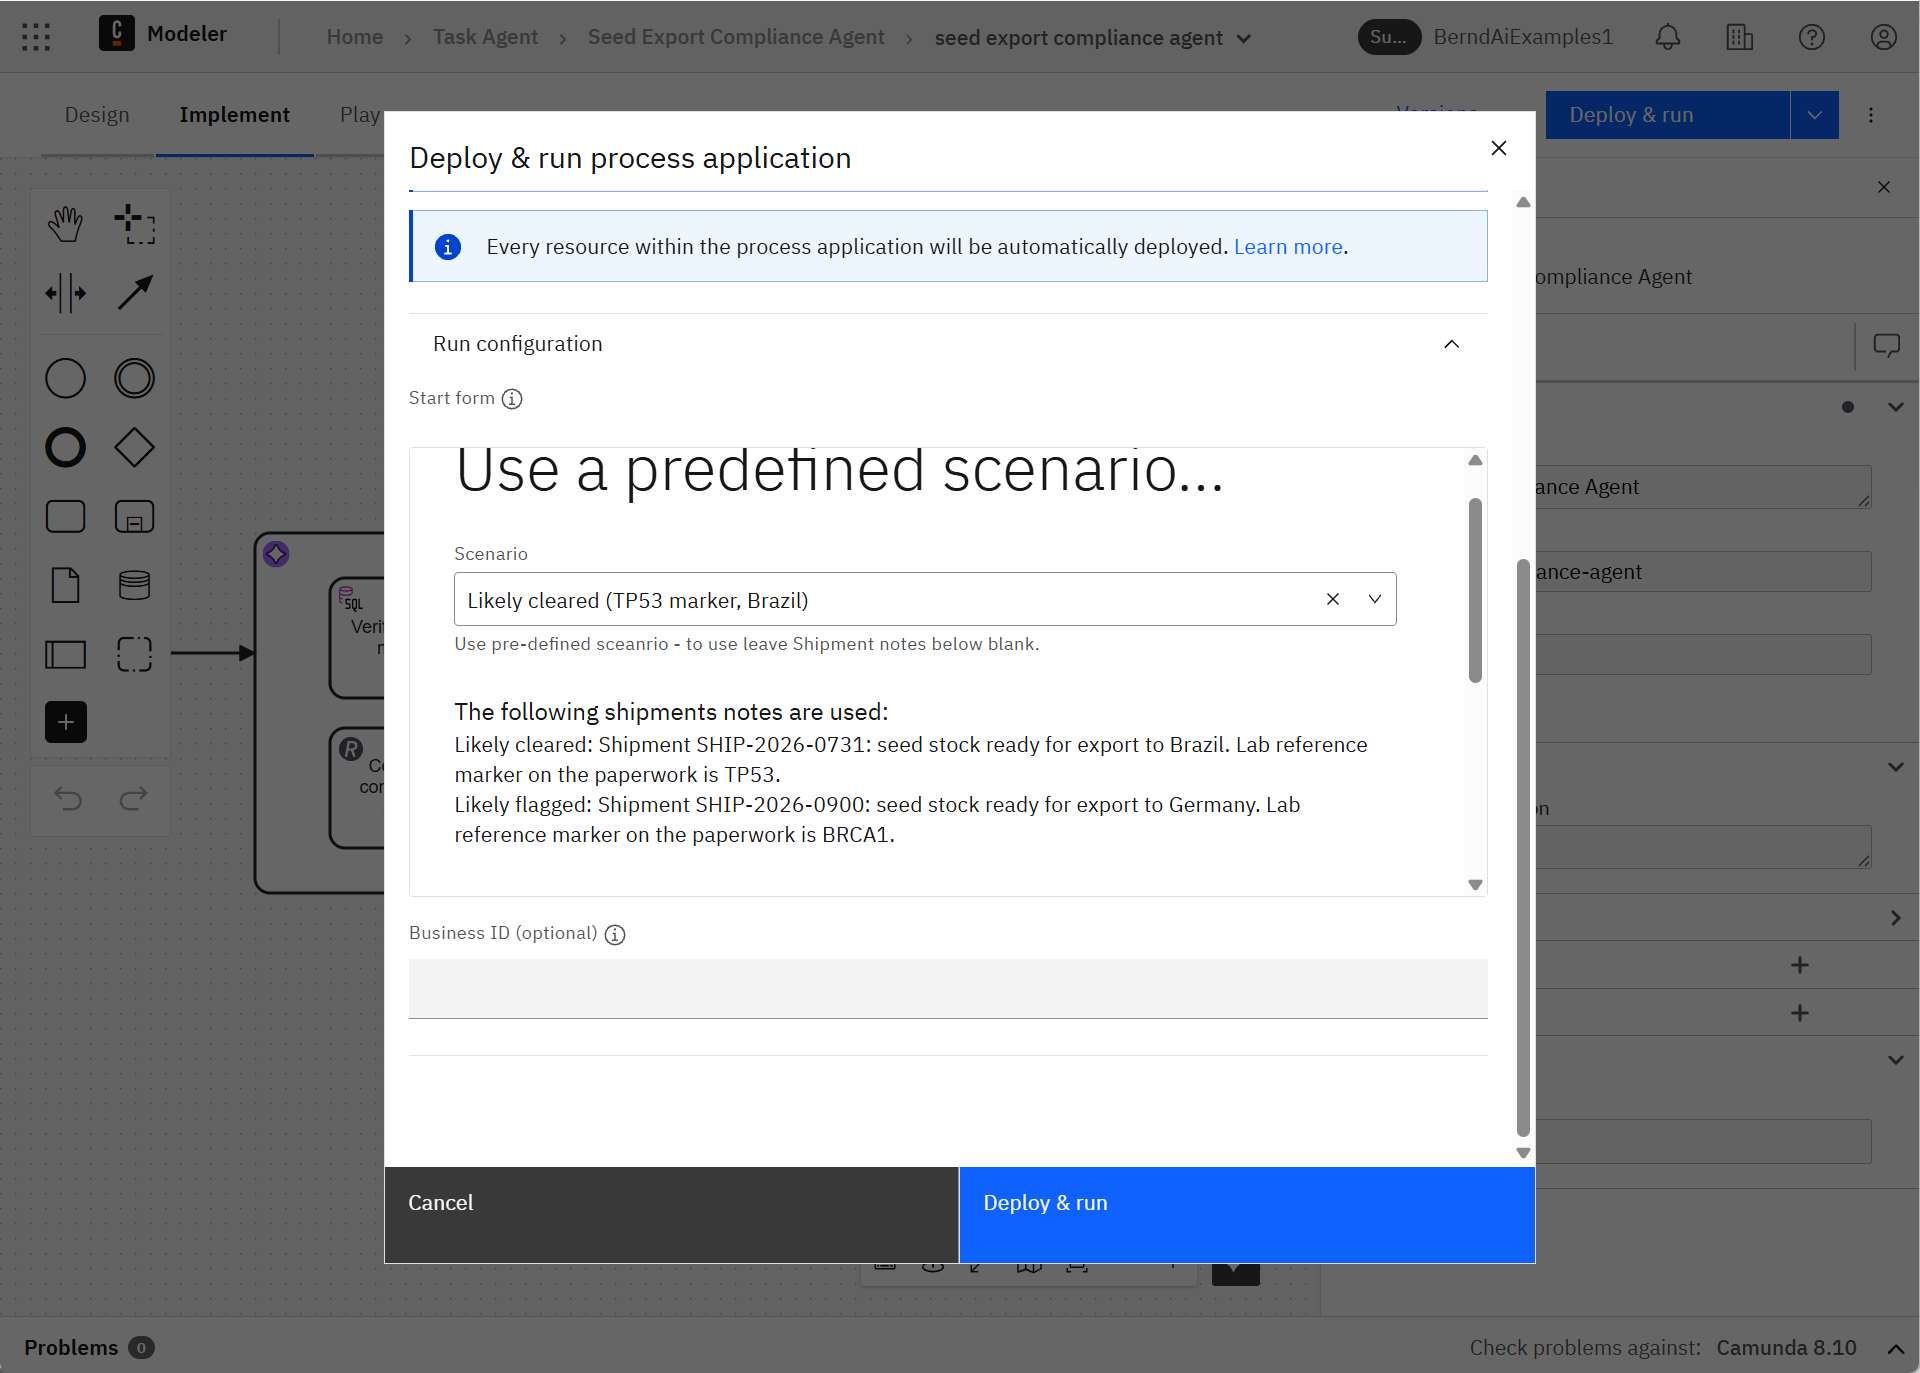
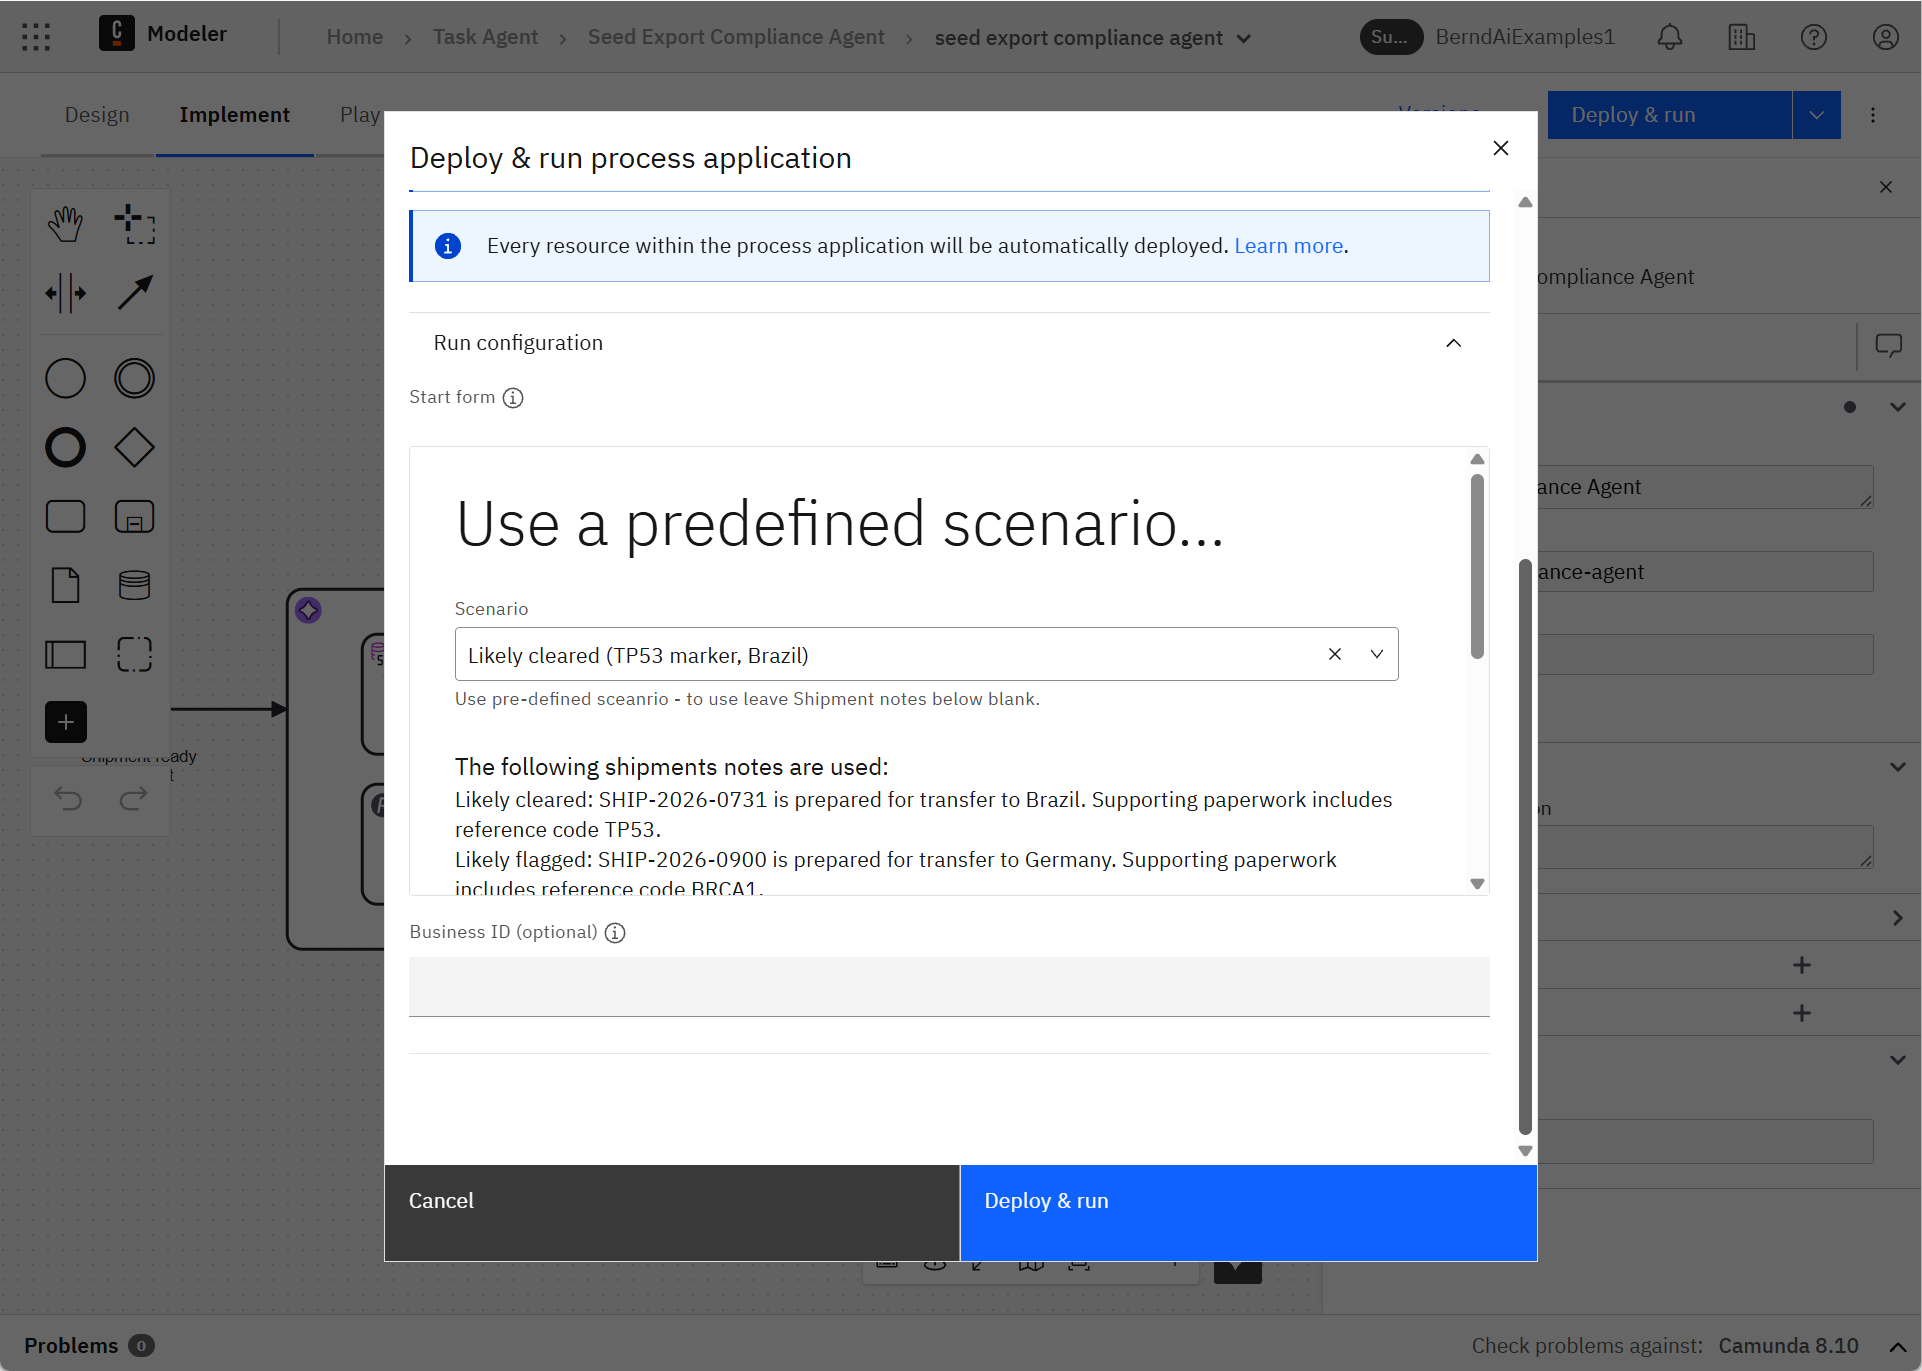
fixed form typo, added screenshots

diff --git a/task-agent/README.md b/task-agent/README.md
@@ -1,6 +1,6 @@
 # Seed Export Compliance Agent
 
-[![Install In Camunda SaaS](https://img.shields.io/badge/Install%20In-Camunda%20SaaS-0A7A5C?style=for-the-badge)](https://modeler.cloud.camunda.io/import/resources?source=https://raw.githubusercontent.com/berndruecker/camunda-examples-quick-turnaround/main/task-agent/models/seed-export-compliance-agent.bpmn,https://raw.githubusercontent.com/berndruecker/camunda-examples-quick-turnaround/main/task-agent/models/seed-export-shipment-ready.form,https://raw.githubusercontent.com/berndruecker/camunda-examples-quick-turnaround/main/task-agent/models/seed-export-compliance-review.form&title=Seed%20Export%20Compliance%20Agent)
+[![Run In Camunda SaaS](https://img.shields.io/badge/Run%20In-Camunda%20SaaS-FC5D0D?style=for-the-badge)](https://modeler.cloud.camunda.io/import/resources?source=https://raw.githubusercontent.com/berndruecker/camunda-examples-quick-turnaround/main/task-agent/models/seed-export-compliance-agent.bpmn,https://raw.githubusercontent.com/berndruecker/camunda-examples-quick-turnaround/main/task-agent/models/seed-export-shipment-ready.form,https://raw.githubusercontent.com/berndruecker/camunda-examples-quick-turnaround/main/task-agent/models/seed-export-compliance-review.form&title=Seed%20Export%20Compliance%20Agent)
 
 
 A concrete runnable **Task Agent** example based on the pattern at [camunda.com/orchestrate/agents](https://camunda.com/orchestrate/agents/).
@@ -22,7 +22,7 @@ The use case would in reality probably don't require agentic reasoning, but we d
 
 The smoothest path is to use a trial cluster in Camunda SaaS. Just use the following button and install the example into your cluster - you can signup on the way if you don't yet have one:
 
-[![Install In Camunda SaaS](https://img.shields.io/badge/Install%20In-Camunda%20SaaS-FC5D0D?style=for-the-badge)](https://modeler.cloud.camunda.io/import/resources?source=https://raw.githubusercontent.com/berndruecker/camunda-examples-quick-turnaround/main/task-agent/models/seed-export-compliance-agent.bpmn,https://raw.githubusercontent.com/berndruecker/camunda-examples-quick-turnaround/main/task-agent/models/seed-export-shipment-ready.form,https://raw.githubusercontent.com/berndruecker/camunda-examples-quick-turnaround/main/task-agent/models/seed-export-compliance-review.form&title=Seed%20Export%20Compliance%20Agent)
+[![Run In Camunda SaaS](https://img.shields.io/badge/Run%20In-Camunda%20SaaS-FC5D0D?style=for-the-badge)](https://modeler.cloud.camunda.io/import/resources?source=https://raw.githubusercontent.com/berndruecker/camunda-examples-quick-turnaround/main/task-agent/models/seed-export-compliance-agent.bpmn,https://raw.githubusercontent.com/berndruecker/camunda-examples-quick-turnaround/main/task-agent/models/seed-export-shipment-ready.form,https://raw.githubusercontent.com/berndruecker/camunda-examples-quick-turnaround/main/task-agent/models/seed-export-compliance-review.form&title=Seed%20Export%20Compliance%20Agent)
 
 Why SaaS first:
 
@@ -32,14 +32,15 @@ Why SaaS first:
 
 
 1. Click [the button above](https://modeler.cloud.camunda.io/import/resources?source=https://raw.githubusercontent.com/berndruecker/camunda-examples-quick-turnaround/main/task-agent/models/seed-export-compliance-agent.bpmn,https://raw.githubusercontent.com/berndruecker/camunda-examples-quick-turnaround/main/task-agent/models/seed-export-shipment-ready.form,https://raw.githubusercontent.com/berndruecker/camunda-examples-quick-turnaround/main/task-agent/models/seed-export-compliance-review.form&title=Seed%20Export%20Compliance%20Agent) to import the example into Camunda SaaS.
+
+   ![Imported model](models/screenshot-imported.png)
 2. Click **Deploy and Run**, the process is deployed onto your cluster and the form to start an instance is opened.
 3. Pick a **Scenario** from the dropdown and leave **Shipment notes** blank to run it as-is. Or fill the **Shipment notes** yourself with data you want to try - whatever you type there takes priority over the dropdown
 
-   (Starting via API/`zbctl` instead of the form works the same way — just supply `shipmentId` and `shipmentNotes` directly, e.g. the "cleared" sample:
+   (Starting via API/`zbctl` instead of the form works the same way — just supply `shipmentNotes` directly, e.g. the "cleared" sample:
    ```json
    {
-      "shipmentId": "SHIP-2026-0731",
-      "shipmentNotes": "Shipment SHIP-2026-0731: seed stock ready for export to Brazil. Lab reference marker on the paperwork is TP53."
+      "shipmentNotes": "SHIP-2026-0731 is prepared for transfer to Brazil. Supporting paperwork includes reference code TP53"
    }
    ```
    )
@@ -77,14 +78,13 @@ The key point: input is free text, not pre-parsed fields. The agent extracts the
 The start form's **Scenario** dropdown carries the sample shipment notes for
 both of these directly — no need to type anything by hand, as long as
 **Shipment notes** is left blank (it always overrides the dropdown when
-filled in). **Shipment ID** is just informational and doesn't affect the
-outcome.
+filled in).
 
 ### Likely cleared
 
 Shipment notes (unstructured):
 
-`Shipment SHIP-2026-0731: seed stock ready for export to Brazil. Lab reference marker on the paperwork is TP53.`
+`SHIP-2026-0731 is prepared for transfer to Brazil. Supporting paperwork includes reference code TP53`
 
 TP53 (4 chars) + Brasília (8 chars) = compliance score 12 (even) → `cleared`.
 
@@ -92,7 +92,7 @@ TP53 (4 chars) + Brasília (8 chars) = compliance score 12 (even) → `cleared`.
 
 Shipment notes (unstructured):
 
-`Shipment SHIP-2026-0900: seed stock ready for export to Germany. Lab reference marker on the paperwork is BRCA1.`
+`SHIP-2026-0900 is prepared for transfer to Germany. Supporting paperwork includes reference code BRCA1`
 
 BRCA1 (5 chars) + Berlin (6 chars) = compliance score 11 (odd) →
 `flagged-for-review`.
@@ -119,7 +119,7 @@ SECRET_CAMUNDA_PROVIDED_LLM_DEFAULT_MODEL=gpt-oss:20b
 ```
 
 3. Start [Camunda 8 Run](https://docs.camunda.io/docs/self-managed/quickstart/developer-quickstart/c8run/).
-4. Deploy [models/seed-export-compliance-agent.bpmn](models/seed-export-compliance-agent.bpmn) and [models/seed-export-shipment-ready.form](models/seed-export-shipment-ready.form).
+4. Deploy [models/seed-export-compliance-agent.bpmn](models/seed-export-compliance-agent.bpmn), [models/seed-export-shipment-ready.form](models/seed-export-shipment-ready.form), and [models/seed-export-compliance-review.form](models/seed-export-compliance-review.form).
 5. Start an instance via Tasklist's form (pick a scenario from the
    dropdown) or with the same sample variables shown above.
 